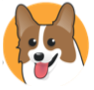
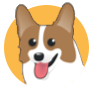
Refactor/67 spinner remake (#70)
* deleted white background from image

* refactored spinner with image import and BEM

diff --git a/src/modules/common/Spinner/Spinner.scss b/src/modules/common/Spinner/Spinner.scss
@@ -1,64 +1,93 @@
-.spinner {
-  width: 15em;
-  height: 15em;
+.spinner-wrapper {
+  display: flex;
+  justify-content: center;
+  align-items: center;
 
-  position: relative;
+  width: 100%;
+  max-width: 100%;
+
+  padding: 3rem 0;
 
   margin: 50px auto;
 
+  overflow: hidden;
+}
+
+.spinner {
+  width: 6rem;
+  height: 6rem;
+
+  position: relative;
+
+  margin: 0;
+  padding: 0;
+
   border-radius: 50%;
 
-  background: #fbb040;
-  background: -moz-linear-gradient(left, #fbb040 10%, rgba(255, 187, 49, 0) 42%);
-  background: -webkit-linear-gradient(left, #fbb040 10%, rgba(255, 187, 49, 0) 42%);
-  background: -o-linear-gradient(left, #fbb040 10%, rgba(255, 187, 49, 0) 42%);
-  background: -ms-linear-gradient(left, #fbb040 10%, rgba(255, 187, 49, 0) 42%);
-  background: linear-gradient(to right, #fbb040 10%, rgba(255, 187, 49, 0) 42%);
-
-  font-size: 10px;
-
-  text-indent: -9999em;
-
-  -webkit-transform: translateZ(0);
-  -ms-transform: translateZ(0);
-  transform: translateZ(0);
+  box-sizing: border-box;
 
   -webkit-animation: load3 1.4s infinite linear;
   animation: load3 1.4s infinite linear;
-}
 
-.spinner:before {
-  width: 50%;
-  height: 50%;
+  z-index: 0;
 
-  position: absolute;
-  top: 0;
-  left: 0;
+  &__gradient {
+    position: absolute;
+    top: -25%;
+    left: -25%;
 
-  border-radius: 100% 0 0 0;
+    width: 150%;
+    height: 150%;
 
-  background: #fbb040;
+    border-radius: inherit;
 
-  content: '';
-}
+    background: #fbb040;
+    background: linear-gradient(to left top, #fff 0%, rgba(255, 187, 49, 0) 30%, #fbb040 80%);
+    background: -moz-linear-gradient(right bottom, #fff 0%, rgba(255, 187, 49, 0) 30%, #fbb040 80%);
+    background: -webkit-linear-gradient(right bottom, #fff 0%, rgba(255, 187, 49, 0) 30%, #fbb040 80%);
+    background: -o-linear-gradient(right bottom, #fff 0%, rgba(255, 187, 49, 0) 30%, #fbb040 80%);
+    background: -ms-linear-gradient(right bottom, #fff 0%, rgba(255, 187, 49, 0) 30%, #fbb040 80%);
 
-.spinner:after {
-  width: 75%;
-  height: 75%;
+    z-index: -1;
 
-  position: absolute;
-  top: 0;
-  left: 0;
-  bottom: 0;
-  right: 0;
+    // Use ::after to trim unnecessary part of gradient
+    &::after {
+      content: '';
 
-  margin: auto;
+      position: absolute;
 
-  border-radius: 50%;
+      top: 0%;
+      left: 50%;
 
-  background: url('../../../assets/images/corgi-circle.png') no-repeat; /*#f7fffb*/
+      width: 50%;
+      height: 50%;
 
-  content: '';
+      background-color: white;
+    }
+  }
+
+  &__background {
+    width: 100%;
+    height: 100%;
+
+    border-radius: inherit;
+
+    background-color: white;
+  }
+
+  &__corgi {
+    position: absolute;
+    // pixel perfect positioning to remove gaps
+    top: -29%;
+    left: 50%;
+
+    width: 75%;
+    height: 75%;
+
+    margin: 0;
+
+    transform: translateX(-50%);
+  }
 }
 
 @-webkit-keyframes load3 {

diff --git a/src/modules/common/Spinner/Spinner.jsx b/src/modules/common/Spinner/Spinner.jsx
@@ -2,6 +2,16 @@ import React from 'react';
 
 import './Spinner.scss';
 
-const Spinner = () => <div className='spinner'></div>;
+import corgiCircle from '~assets/images/corgi-circle.png';
+
+const Spinner = () => (
+  <div className='spinner-wrapper'>
+    <div className='spinner'>
+      <div className='spinner__gradient'></div>
+      <div className='spinner__background'></div>
+      <img className='spinner__corgi' src={corgiCircle}></img>
+    </div>
+  </div>
+);
 
 export default Spinner;
